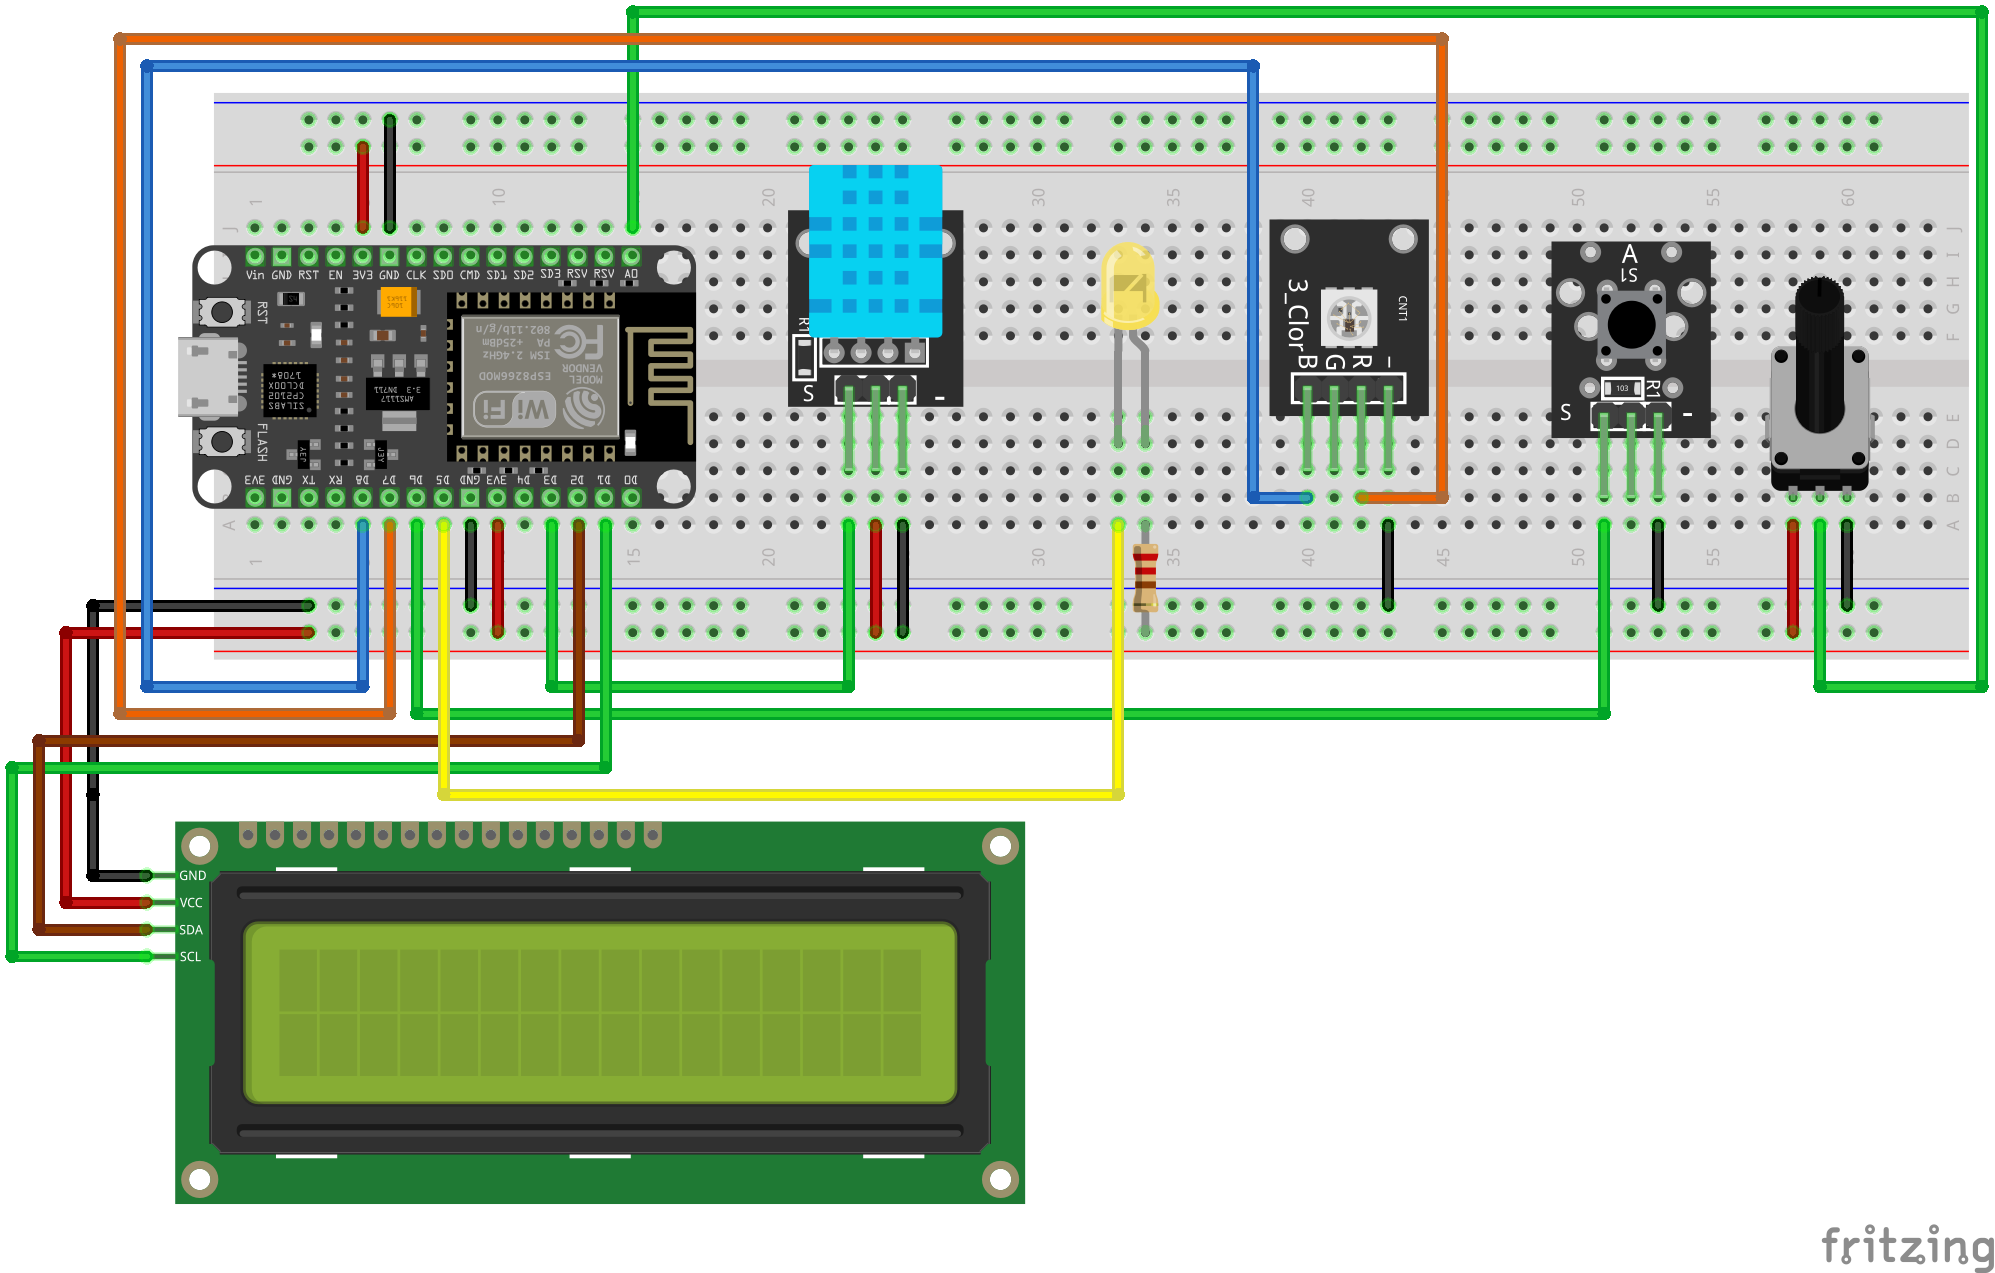
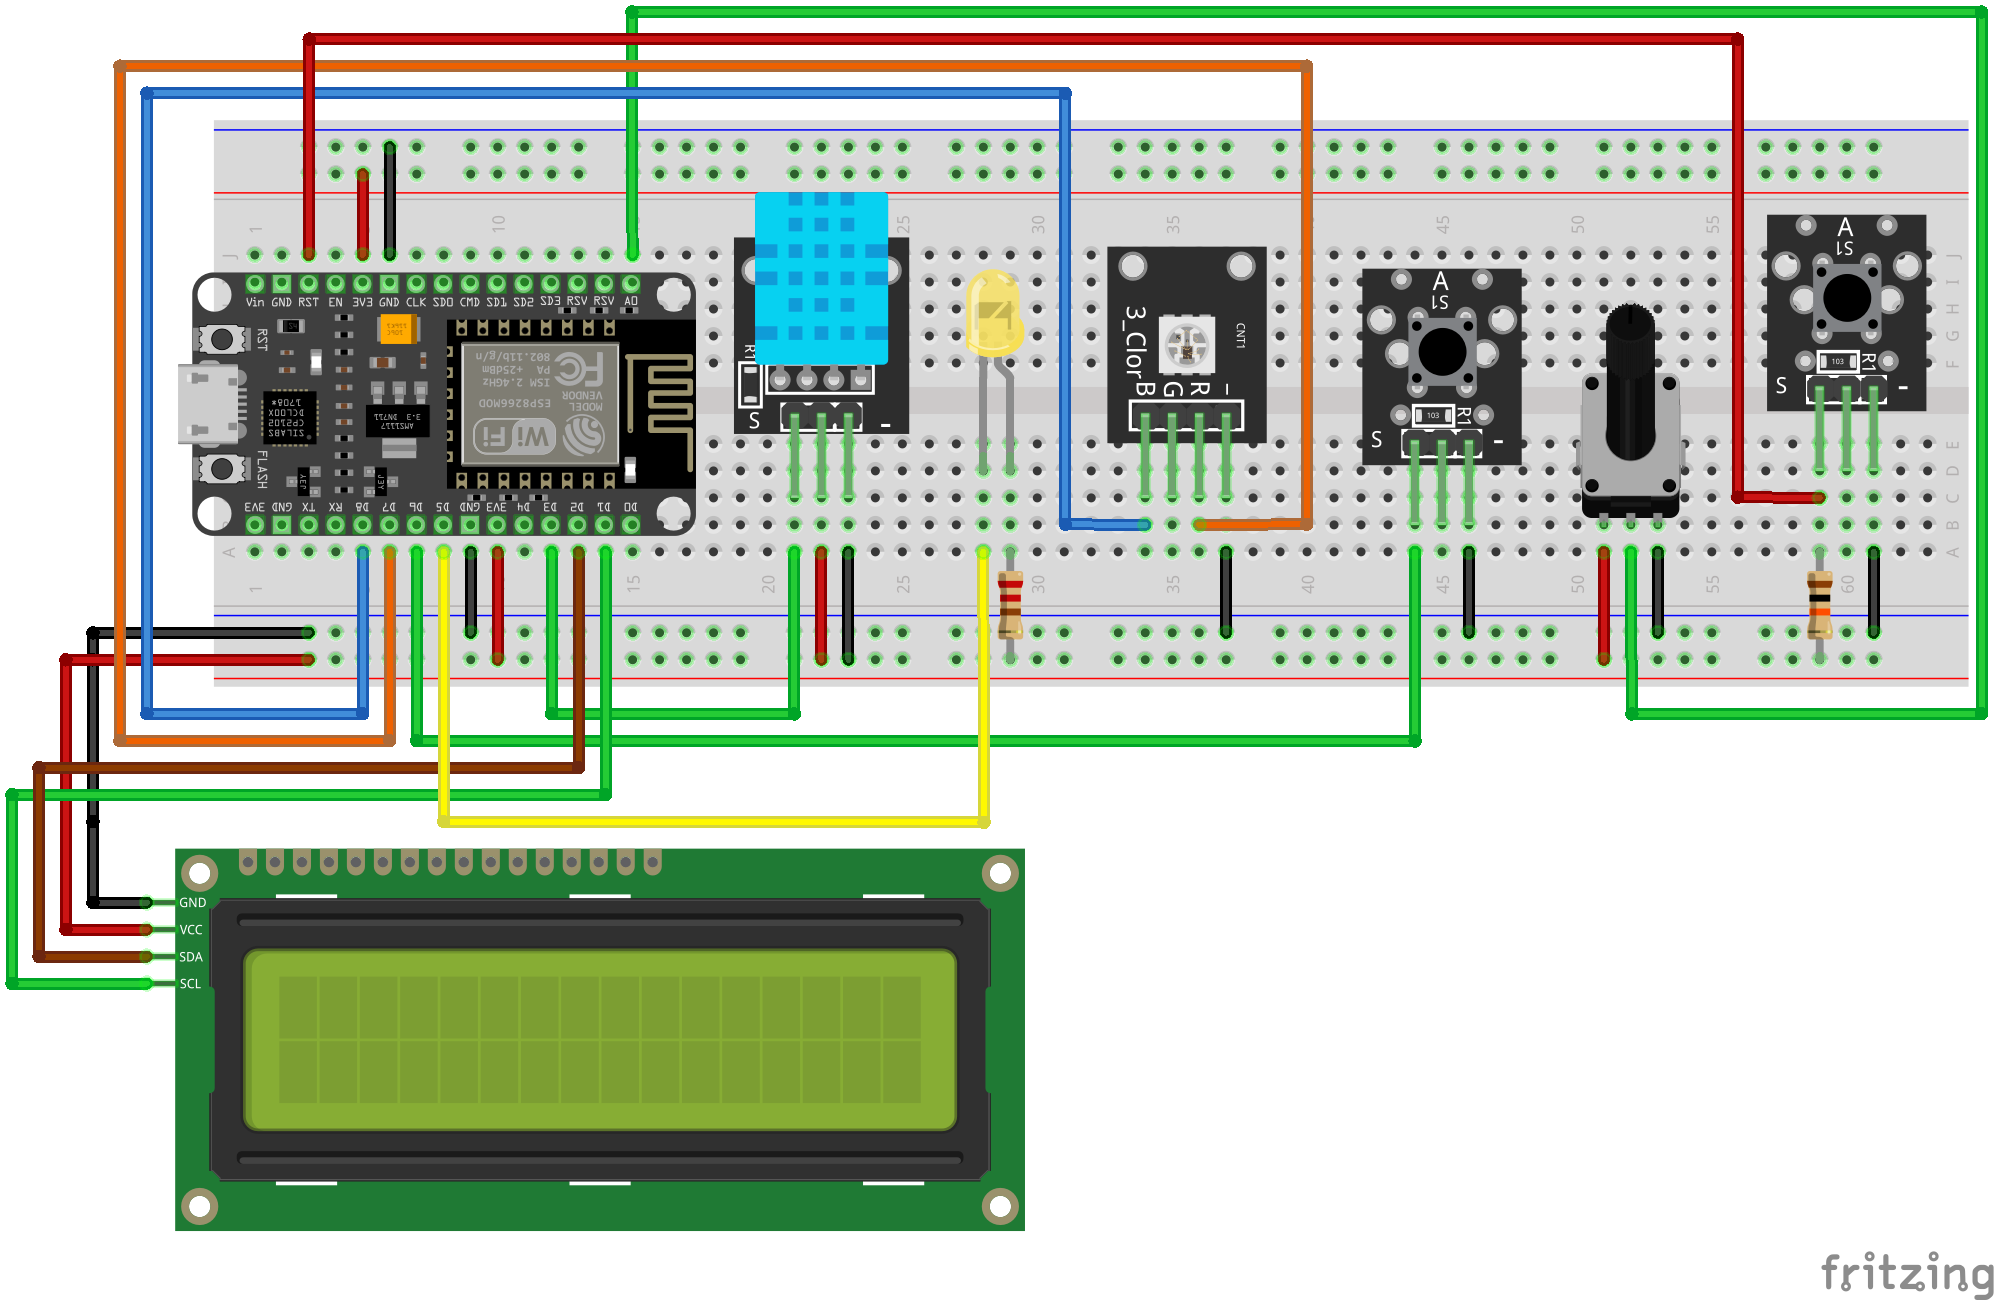
Implemented away mode

diff --git a/rms/rms.h b/rms/rms.h
@@ -32,6 +32,7 @@ enum State
 {
     NORMAL,
     WEATHER,
+    AWAY_MODE,
     NIGHT_MODE,
     NIGHT_MODE_RESTORE,
     CONFIG_LOW_TEMPERATURE,
